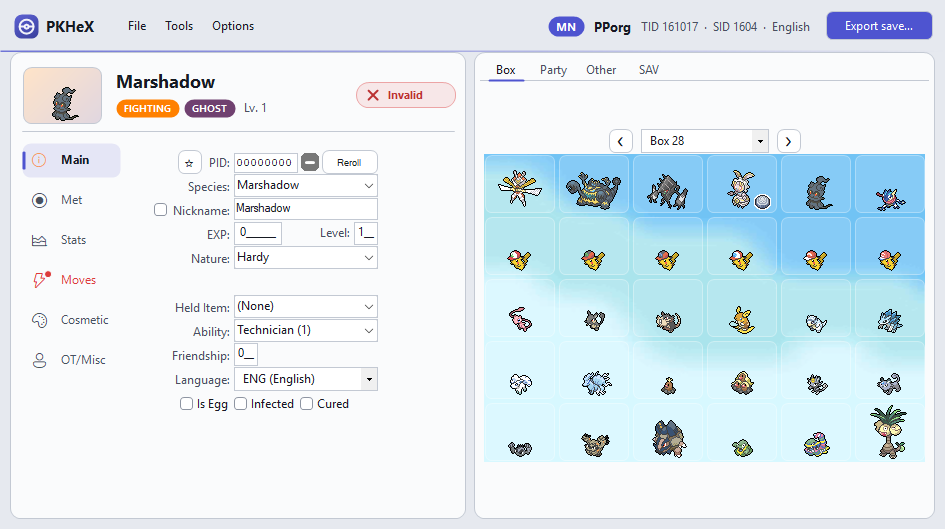
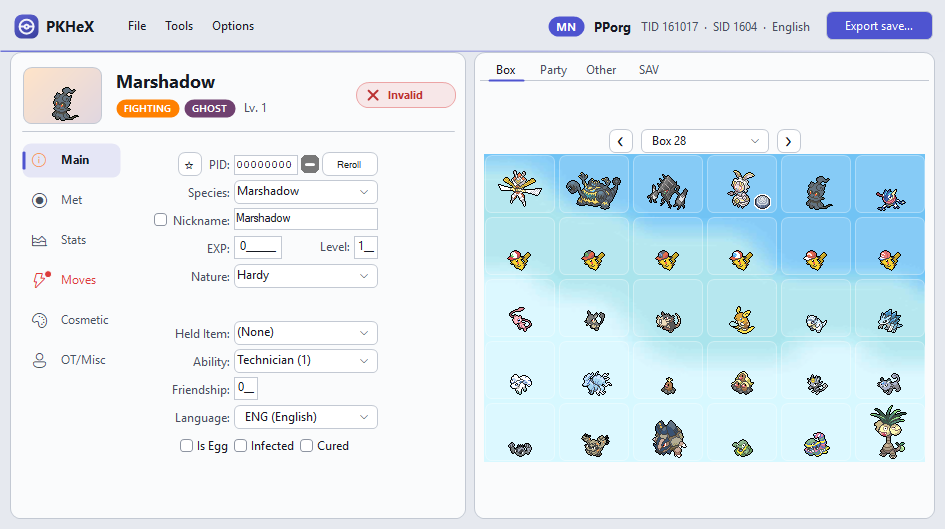
Dark slot tiles in the database windows; refresh screenshots
- Panels with light system backgrounds (database result panels, ribbon and
  super training containers, hover preview) become the card surface, and
  their hard native frame is dropped
- Grids never show a wallpaper in dark mode (rule moved from BoxEditor into
  PokeGrid.SetBackground), so the Pokémon, Encounter and Mystery Gift
  databases show the same dark tiles as the main box view
- README: refreshed screenshots, added the Mystery Gift Database

Changed region(s): [[0.1534, 0.2722, 0.3989, 0.8771], [0.6751, 0.242, 0.7365, 0.2722]]

diff --git a/PKHeX.WinForms/Theming/ThemeWalker.cs b/PKHeX.WinForms/Theming/ThemeWalker.cs
@@ -233,8 +233,13 @@ internal static class ThemeWalker
                 break;
 
             case Panel pan:
-                if (pan.BackColor == SystemColors.Control || pan.BackColor == Color.White)
+                // Designer defaults and light system colors (ButtonHighlight, Window...) become the card surface.
+                if (pan.BackColor == Color.White || IsLightSystemColor(pan.BackColor))
+                {
                     pan.BackColor = p.Surface0;
+                    if (pan.BorderStyle == BorderStyle.FixedSingle) // hard native frame around e.g. database result grids
+                        pan.BorderStyle = BorderStyle.None;
+                }
                 pan.ForeColor = p.TextPrimary;
                 break;
 
@@ -285,6 +290,10 @@ internal static class ThemeWalker
         foreach (ToolStripItem i in ctx.Items)
             StyleMenuItem(i, p);
     }
+
+    private static bool IsLightSystemColor(Color c) => c.IsSystemColor && c.ToKnownColor() is KnownColor.Control
+        or KnownColor.ButtonFace or KnownColor.ButtonHighlight or KnownColor.Window or KnownColor.ControlLight
+        or KnownColor.ControlLightLight or KnownColor.Info or KnownColor.Menu;
 
     private static Color ResolveParentBack(Control c, ThemePalette p)
     {

diff --git a/PKHeX.WinForms/Controls/SAV Editor/BoxEditor.cs b/PKHeX.WinForms/Controls/SAV Editor/BoxEditor.cs
@@ -199,11 +199,7 @@ public partial class BoxEditor : UserControl, ISlotViewer<PictureBox>
         Editor.Reload();
         int box = CurrentBox;
 
-        // Wallpapers clash with the dark palette's Surface0.
-        if (!DesignMode && PKHeX.WinForms.Theming.Theme.Current.IsDark)
-            BoxPokeGrid.SetBackground(null!);
-        else
-            BoxPokeGrid.SetBackground(SAV.WallpaperImage(box));
+        BoxPokeGrid.SetBackground(SAV.WallpaperImage(box));
 
         M?.Hover.Stop();
 

diff --git a/PKHeX.WinForms/Controls/Slots/PokeGrid.cs b/PKHeX.WinForms/Controls/Slots/PokeGrid.cs
@@ -72,7 +72,8 @@ public partial class PokeGrid : UserControl
         ResumeLayout();
     }
 
-    public void SetBackground(Image img) => BackgroundImage = img;
+    // Wallpapers clash with the dark palette: dark mode shows plain slot tiles on the card instead.
+    public void SetBackground(Image? img) => BackgroundImage = !DesignMode && Theming.Theme.Current.IsDark ? null : img;
 
     public static SelectablePictureBox GetControl(int width, int height, string name) => new()
     {

diff --git a/README.md b/README.md
@@ -14,6 +14,10 @@ A fork of [hexbyt3/PKHeXth](https://github.com/hexbyt3/PKHeXth) (itself a fork o
 | --- | --- |
 | ![Settings](.github/screenshots/settings.png) | ![Trainer editor](.github/screenshots/trainer-info.png) |
 
+| Mystery Gift Database |
+| --- |
+| ![Mystery Gift Database](.github/screenshots/database.png) |
+
 ## What's different
 
 **Main window**
@@ -33,6 +37,7 @@ A fork of [hexbyt3/PKHeXth](https://github.com/hexbyt3/PKHeXth) (itself a fork o
 - Dark and light themes with an accent color picked from the loaded game (or your own color).
 - Flat underline tabs, rounded buttons, themed text, number, date and dropdown fields, rounded group boxes.
 - Save / OK buttons stand out as the primary action in every dialog.
+- Database windows (Pokémon, Encounter, Mystery Gift) use the same dark slot tiles as the main box view.
 - The Windows title bar matches the app.
 
 **Fixes**
